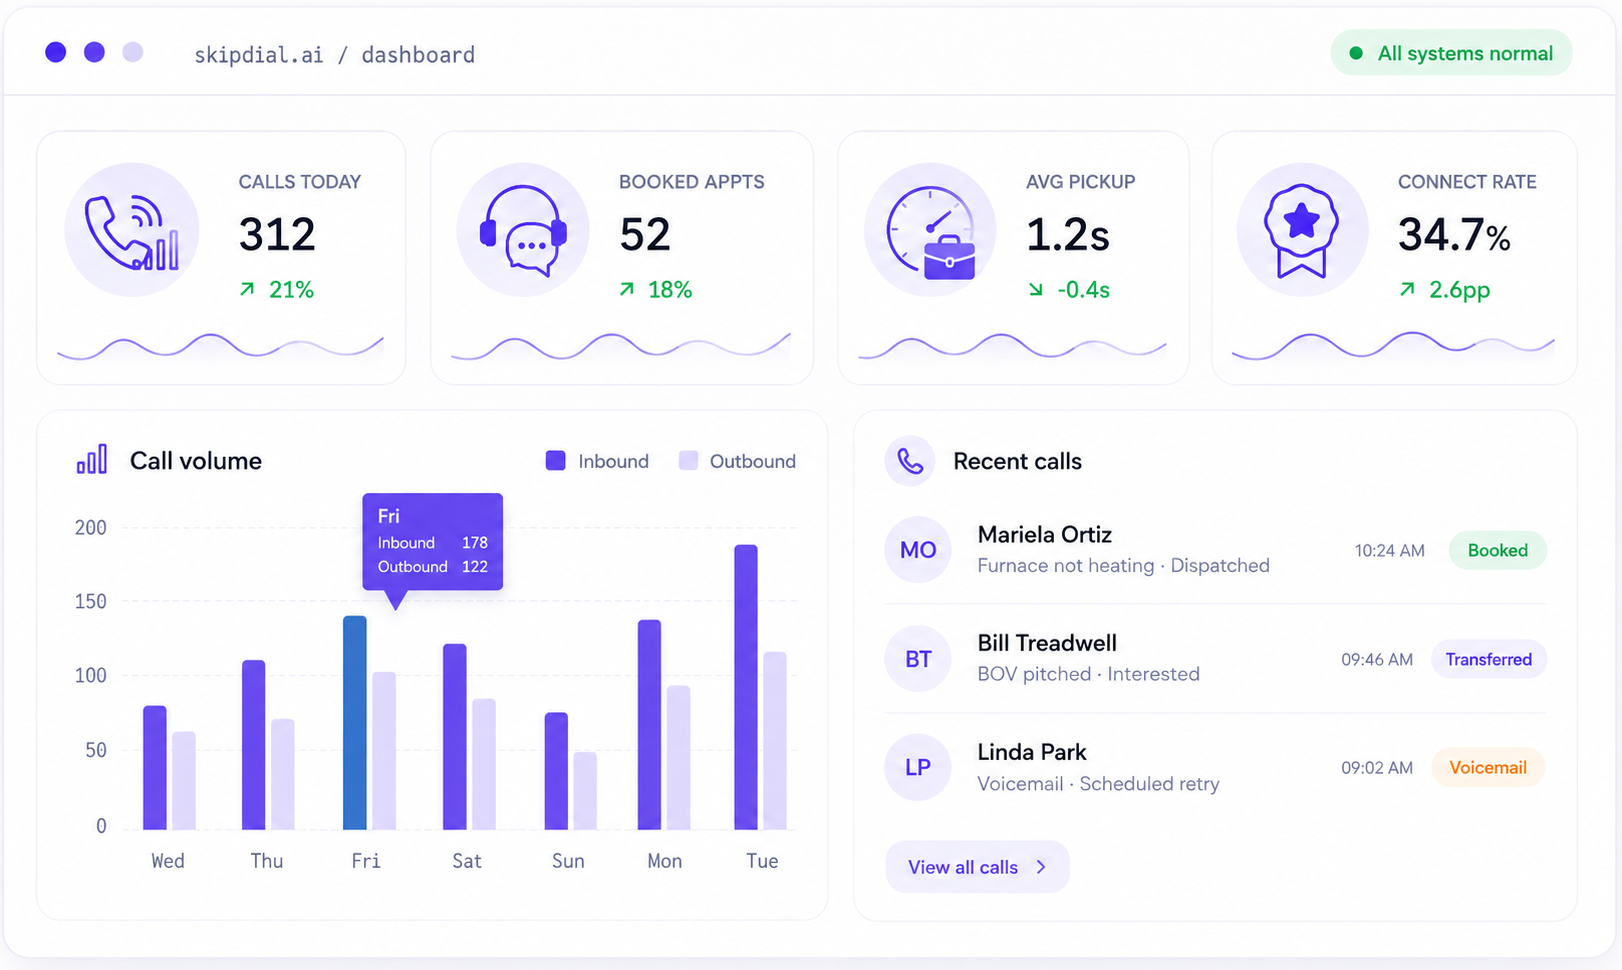
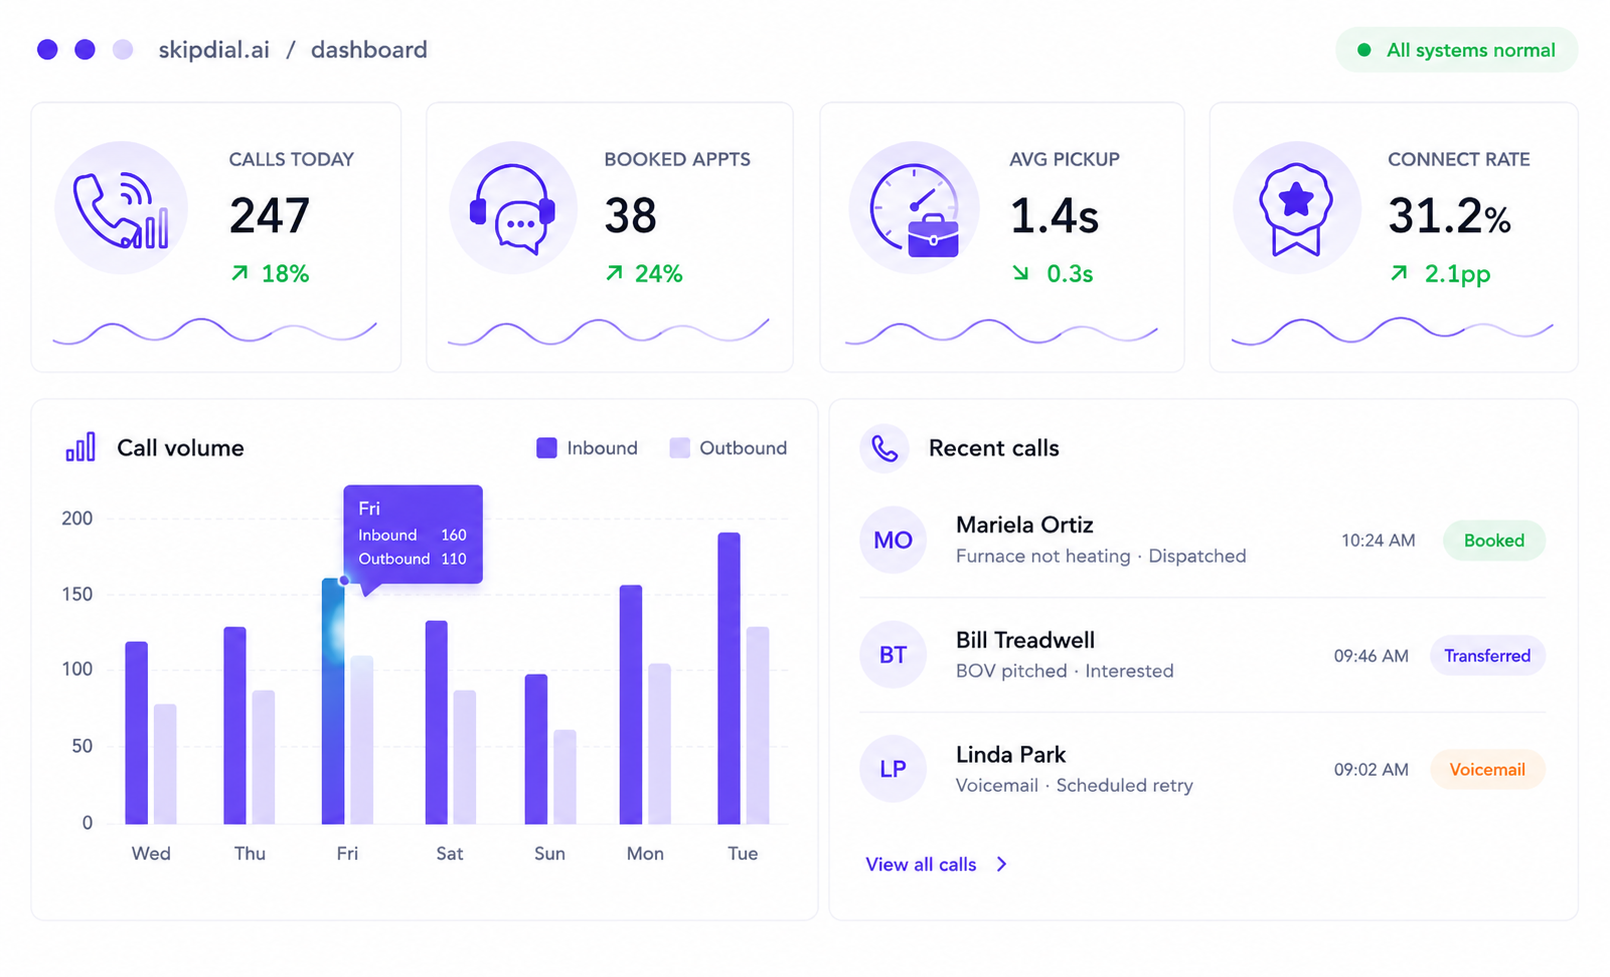
- Restructured the hero section into a 50/50 split layout to prominently feature the TryDemoCall widget alongside the headline. - Moved the VoiceAgentSimulator into a dedicated "Watch a Real Call" section below the hero fold.

diff --git a/src/app/page.tsx b/src/app/page.tsx
@@ -1,8 +1,8 @@
 import type { Metadata } from "next";
 import type { CSSProperties } from "react";
-import { ChevronDown } from "lucide-react";
+import { ChevronDown, Sparkles } from "lucide-react";
 import { Container, SectionHead, Button, Eyebrow } from "@/components/ui/primitives";
-import { BlurTitle, Reveal } from "@/components/motion";
+import { BlurTitle, Reveal, Stagger, Item } from "@/components/motion";
 import { CallArrivalFrame, Magnetic, ParallaxDrift } from "@/components/motion/entrances";
 import {
   Section,
@@ -91,65 +91,59 @@ export default function Home() {
           className="pointer-events-none absolute inset-0 [background:radial-gradient(72%_68%_at_50%_46%,rgba(255,255,255,0.94)_0%,rgba(255,255,255,0.86)_42%,rgba(255,255,255,0.6)_68%,transparent_88%)]"
         />
 
-        <Container className="relative grid flex-1 items-center gap-12 lg:grid-cols-2 lg:gap-16">
-          <div>
-            <Reveal variant="fadeUp">
-              <span className="inline-flex items-center gap-2 rounded-full border border-line bg-surface/80 py-1 pl-1 pr-3.5 text-[13px] font-medium text-ink-light backdrop-blur-sm">
-                <span className="rounded-full bg-accent px-2.5 py-0.5 text-[11px] font-semibold text-ink-inverse">
-                  24/7
-                </span>
-                Autonomous voice agents for inbound &amp; outbound
+        <Container className="relative flex flex-1 flex-col items-center justify-center text-center">
+          <Reveal variant="fadeUp">
+            <span className="inline-flex items-center gap-2 rounded-full border border-line bg-surface/80 py-1 pl-1 pr-3.5 text-[13px] font-medium text-ink-light backdrop-blur-sm">
+              <span className="rounded-full bg-accent px-2.5 py-0.5 text-[11px] font-semibold text-ink-inverse">
+                24/7
               </span>
-            </Reveal>
+              Autonomous voice agents for inbound &amp; outbound
+            </span>
+          </Reveal>
 
-            <BlurTitle
-              as="h1"
-              text="Skip the Dial."
-              mutedText="Not the Call."
-              className="hero-title-brand mt-6 text-display-xl text-ink"
-            />
+          <BlurTitle
+            as="h1"
+            text="Skip the Dial."
+            mutedText="Not the Call."
+            className="hero-title-brand mx-auto mt-6 max-w-4xl text-display-xl text-ink"
+          />
 
-            <Reveal variant="fadeUp" delay={0.3}>
-              <p className="mt-6 max-w-2xl text-pretty text-[19px] leading-relaxed text-ink-light">
-                AI voice agents that answer calls, book appointments, and sync your CRM 24/7.
-              </p>
-            </Reveal>
+          <Reveal variant="fadeUp" delay={0.3}>
+            <p className="mx-auto mt-6 max-w-2xl text-pretty text-[19px] leading-relaxed text-ink-light">
+              AI voice agents that answer calls, book appointments, and sync your CRM 24/7.
+            </p>
+          </Reveal>
 
-            <Reveal variant="fadeUp" delay={0.4}>
-              <div className="mt-8 flex flex-wrap items-center gap-3">
-                <Magnetic>
-                  <Button href="/request-a-free-demo" size="lg" arrow>
-                    Try It Yourself
-                  </Button>
-                </Magnetic>
-                <Button href="#sample" variant="outline" size="lg">
-                  Hear a Sample
+          <Reveal variant="fadeUp" delay={0.4}>
+            <div className="mt-8 flex flex-wrap items-center justify-center gap-3">
+              <Magnetic>
+                <Button href="/request-a-free-demo" size="lg" arrow>
+                  Try It Yourself
                 </Button>
-              </div>
-            </Reveal>
+              </Magnetic>
+              <Button href="#sample" variant="outline" size="lg">
+                Hear a Sample
+              </Button>
+            </div>
+          </Reveal>
 
-            {/* Trust line — unified style, concise copy */}
-            <Reveal variant="fadeUp" delay={0.5}>
-              <div className="mt-10 flex flex-wrap items-center gap-x-6 gap-y-2.5 text-[14.5px] font-medium text-ink-light">
-                <span className="flex items-center gap-2">
-                  <svg className="h-4 w-4 text-accent/60" viewBox="0 0 24 24" fill="none" stroke="currentColor" strokeWidth="2.5" strokeLinecap="round" strokeLinejoin="round"><path d="M20 6 9 17l-5-5"/></svg>
-                  <span className="trust-shimmer">Answering calls 24/7/365</span>
-                </span>
-                <span className="flex items-center gap-2" style={{ "--pulse-delay": "0.8s" } as CSSProperties}>
-                  <svg className="h-4 w-4 text-accent/60" viewBox="0 0 24 24" fill="none" stroke="currentColor" strokeWidth="2.5" strokeLinecap="round" strokeLinejoin="round"><path d="M20 6 9 17l-5-5"/></svg>
-                  <span className="trust-shimmer">Inbound + outbound in one agent</span>
-                </span>
-                <span className="flex items-center gap-2" style={{ "--pulse-delay": "1.6s" } as CSSProperties}>
-                  <svg className="h-4 w-4 text-accent/60" viewBox="0 0 24 24" fill="none" stroke="currentColor" strokeWidth="2.5" strokeLinecap="round" strokeLinejoin="round"><path d="M20 6 9 17l-5-5"/></svg>
-                  <span className="trust-shimmer">Syncs to your CRM automatically</span>
-                </span>
-              </div>
-            </Reveal>
-          </div>
-
-          <CallArrivalFrame>
-            <TryDemoCall />
-          </CallArrivalFrame>
+          {/* Trust line — unified style, concise copy */}
+          <Reveal variant="fadeUp" delay={0.5}>
+            <div className="mt-10 flex flex-wrap items-center justify-center gap-x-6 gap-y-2.5 text-[14.5px] font-medium text-ink-light">
+              <span className="flex items-center gap-2">
+                <svg className="h-4 w-4 text-accent/60" viewBox="0 0 24 24" fill="none" stroke="currentColor" strokeWidth="2.5" strokeLinecap="round" strokeLinejoin="round"><path d="M20 6 9 17l-5-5"/></svg>
+                <span className="trust-shimmer">Answering calls 24/7/365</span>
+              </span>
+              <span className="flex items-center gap-2" style={{ "--pulse-delay": "0.8s" } as CSSProperties}>
+                <svg className="h-4 w-4 text-accent/60" viewBox="0 0 24 24" fill="none" stroke="currentColor" strokeWidth="2.5" strokeLinecap="round" strokeLinejoin="round"><path d="M20 6 9 17l-5-5"/></svg>
+                <span className="trust-shimmer">Inbound + outbound in one agent</span>
+              </span>
+              <span className="flex items-center gap-2" style={{ "--pulse-delay": "1.6s" } as CSSProperties}>
+                <svg className="h-4 w-4 text-accent/60" viewBox="0 0 24 24" fill="none" stroke="currentColor" strokeWidth="2.5" strokeLinecap="round" strokeLinejoin="round"><path d="M20 6 9 17l-5-5"/></svg>
+                <span className="trust-shimmer">Syncs to your CRM automatically</span>
+              </span>
+            </div>
+          </Reveal>
         </Container>
 
         {/* Scroll cue — signals there's more below and doubles as a
@@ -315,6 +309,42 @@ export default function Home() {
             <Reveal variant="expandX">
               <AudioPlayer src="/audio/real-estate-call-recording.wav" />
             </Reveal>
+          </div>
+        </Container>
+      </Section>
+
+      {/* ── 8 · Live demo call widget ────────────────────────────────────── */}
+      <Section tone="alt" id="live-demo">
+        <Container>
+          <div className="grid items-center gap-12 lg:grid-cols-2 lg:gap-20">
+            <div>
+              <SectionHead
+                eyebrow="Try it now"
+                title="Try It for"
+                mutedTitle="Yourself"
+              >
+                Pick your industry and language, then get a live demonstration
+                call. Hear how structured intake, appointment booking, and
+                call routing work in a real interaction.
+              </SectionHead>
+              <Stagger className="mt-8 flex flex-wrap gap-2.5">
+                {["Structured intake", "Appointment booking", "Call routing"].map(
+                  (chip) => (
+                    <Item
+                      key={chip}
+                      variant="fadeIn"
+                      className="flex items-center gap-1.5 rounded-full border border-line bg-surface px-3.5 py-1.5 text-[13px] font-medium text-ink-light"
+                    >
+                      <Sparkles aria-hidden className="h-3.5 w-3.5 text-accent" />
+                      {chip}
+                    </Item>
+                  )
+                )}
+              </Stagger>
+            </div>
+            <CallArrivalFrame>
+              <TryDemoCall />
+            </CallArrivalFrame>
           </div>
         </Container>
       </Section>
